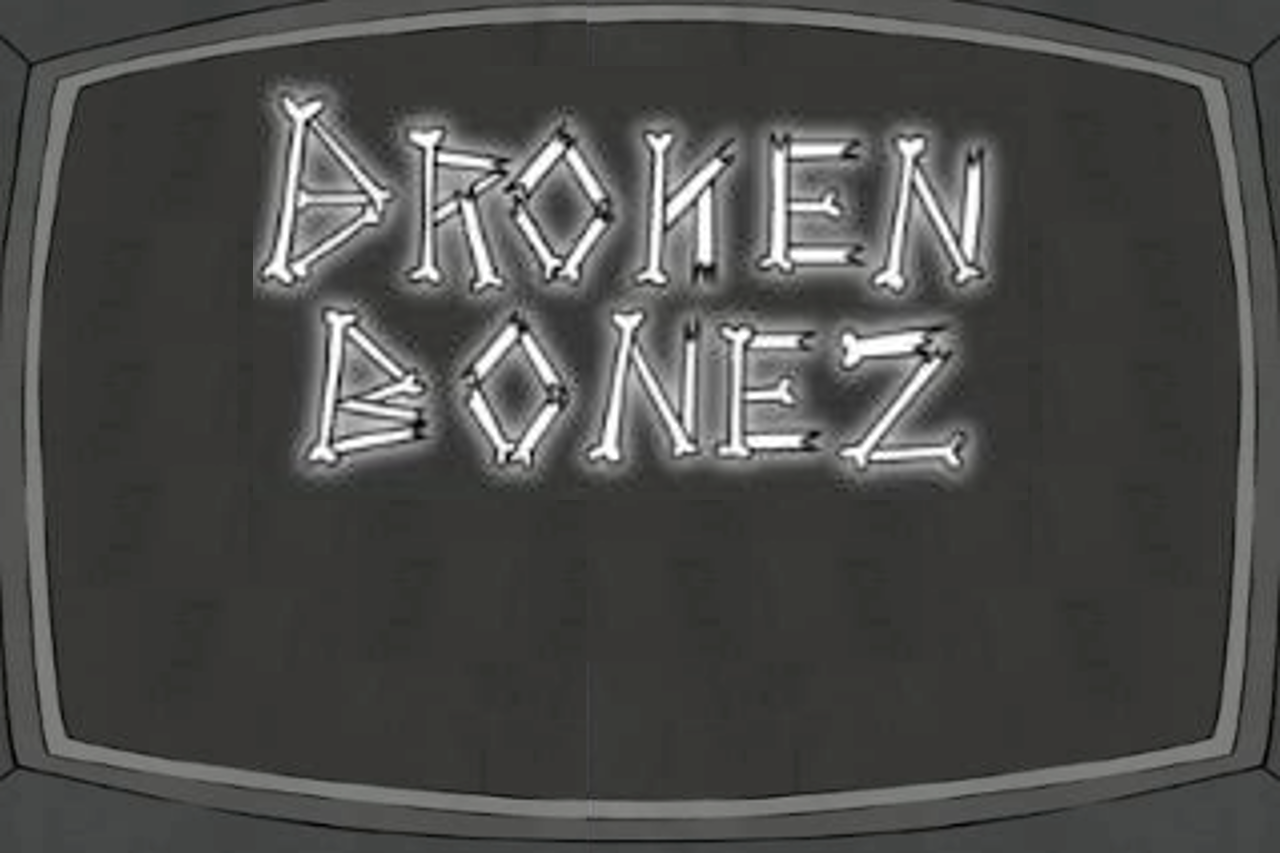
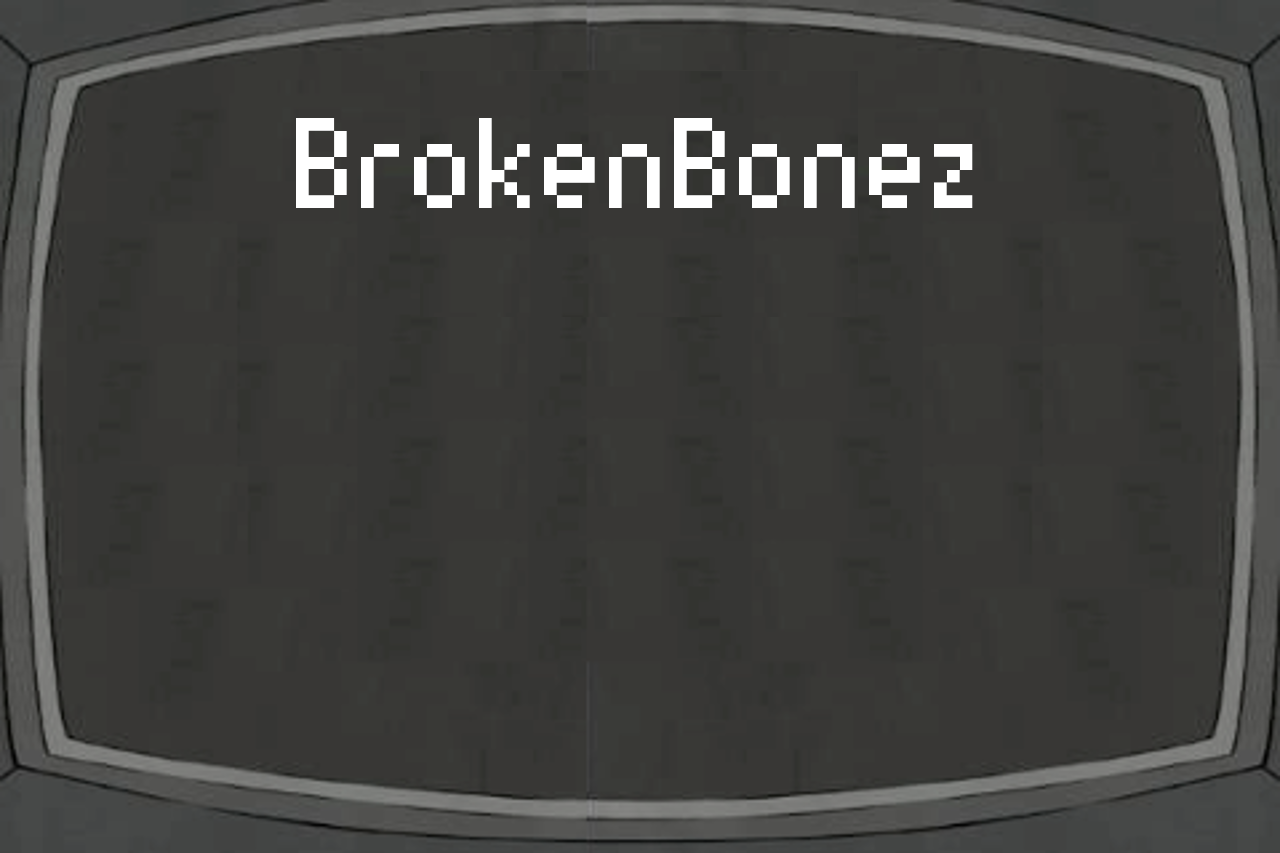
ImageButtons now work with touch, Main Menu art updated & all Main Menu buttons added, removed old textButton class & various unused pngs.

Changed region(s): [[0.1875, 0.0914, 0.7812, 0.5791]]

diff --git a/BrokenBonez/app/src/main/java/com/dragonfruitstudios/brokenbonez/Menu/MenuState.java b/BrokenBonez/app/src/main/java/com/dragonfruitstudios/brokenbonez/Menu/MenuState.java
@@ -2,7 +2,6 @@ package com.dragonfruitstudios.brokenbonez.Menu;
 
 import android.content.res.Resources;
 import android.graphics.Bitmap;
-import android.util.DisplayMetrics;
 import android.util.Log;
 import android.view.MotionEvent;
 import com.dragonfruitstudios.brokenbonez.AssetLoading.AssetLoader;
@@ -13,10 +12,13 @@ import com.dragonfruitstudios.brokenbonez.Math.VectorF;
 
 public class MenuState implements GameObject {
     ImageButton startGame;
+    ImageButton hiScore;
+    ImageButton credits;
     AssetLoader assetLoader;
     Bitmap background;
     boolean noiseOn;
     boolean noiseWait;
+    float waitTime = 0;
     Bitmap noise;
     final Bitmap scaledNoise;
     VectorF pos;
@@ -27,7 +29,9 @@ public class MenuState implements GameObject {
     public MenuState(AssetLoader assetLoader, GameSceneManager gameSceneManager) {
         this.assetLoader = assetLoader;
         this.gameSceneManager = gameSceneManager;
-        startGame = new ImageButton(assetLoader);
+        startGame = new ImageButton(assetLoader, getScreenWidth() / 4 - 14, getScreenHeight() / 4 + 60, 612, 180);
+        hiScore = new ImageButton(assetLoader, getScreenWidth() / 4 - 14, getScreenHeight() / 4 * 2 + 120, 270, 60);
+        credits = new ImageButton(assetLoader,  getScreenWidth() / 4 * 2 + 29, getScreenHeight() / 4 * 2 + 120, 270, 60);
         this.assetLoader.AddAssets(new String[]{"tv.png", "tvnoise.png"});
         noise = assetLoader.getBitmapByName("tvnoise.png");
         background = assetLoader.getBitmapByName("tv.png");
@@ -39,13 +43,13 @@ public class MenuState implements GameObject {
 
     @Override
     public void update(float lastUpdate) {
-        float waitTime;
         if(getNoiseWait() == true){
-            waitTime = lastUpdate;
-            while(lastUpdate == waitTime){
-                Log.d("START","Start");
-                startGameScreen();
-                break;
+            waitTime += lastUpdate;
+                if(waitTime > 1000) {
+                    noiseOn = false;
+                    noiseWait = false;
+                    waitTime = 0;
+                    startGameScreen();
             }
         }
     }
@@ -68,7 +72,9 @@ public class MenuState implements GameObject {
     @Override
     public void draw(GameView view) {
         view.drawImage(scaledBackground, pos, rotation, GameView.ImageOrigin.TopLeft);
-        view.drawImage(startGame.startGame, pos, rotation, GameView.ImageOrigin.TopLeft);
+        view.drawImage(startGame.scaledStartGame, startGame.pos, startGame.rotation, GameView.ImageOrigin.TopLeft);
+        view.drawImage(hiScore.scaledHiScore, hiScore.pos, hiScore.rotation, GameView.ImageOrigin.TopLeft);
+        view.drawImage(credits.scaledCredits, credits.pos, credits.rotation, GameView.ImageOrigin.TopLeft);
         if(getNoiseOn() == true){
             view.drawImage(scaledNoise, pos, rotation, GameView.ImageOrigin.TopLeft);
         }
@@ -83,8 +89,23 @@ public class MenuState implements GameObject {
      * I need a quick explanation on that.
      */
     public void onTouchEvent(MotionEvent event) {
-        setNoiseOn();
-        setNoiseWait();
+        startGame.onTouchEvent(event, (getScreenWidth() / 4 - 14), (getScreenHeight() / 4 + 60), ((getScreenWidth() / 4 - 14) + 611), ((getScreenHeight() / 4 + 60) + 179));
+        hiScore.onTouchEvent(event, (getScreenWidth() / 4 - 14), (getScreenHeight() / 4 * 2 + 120), ((getScreenWidth() / 4 - 14) + 269), ((getScreenHeight() / 4 * 2 + 120) + 59));
+        credits.onTouchEvent(event, (getScreenWidth() / 4 * 2 + 29), (getScreenHeight() / 4 * 2 + 120), ((getScreenWidth() / 4 * 2 + 29) + 269), ((getScreenHeight() / 4 * 2 + 120) + 59));
+
+        if(startGame.isTouched() == true){
+            startGame.isTouched = false;
+            setNoiseOn();
+            setNoiseWait();
+        }
+        if(hiScore.isTouched == true){
+            hiScore.isTouched = false;
+            Log.d("HISCORE", "isTouched");
+        }
+        if(credits.isTouched == true){
+            credits.isTouched = false;
+            Log.d("CREDITS", "isTouched");
+        }
     }
 
     public void startGameScreen() {

diff --git a/BrokenBonez/app/src/main/java/com/dragonfruitstudios/brokenbonez/Menu/ImageButton.java b/BrokenBonez/app/src/main/java/com/dragonfruitstudios/brokenbonez/Menu/ImageButton.java
@@ -1,16 +1,61 @@
 package com.dragonfruitstudios.brokenbonez.Menu;
 
-
 import android.graphics.Bitmap;
+import android.graphics.PointF;
+import android.view.MotionEvent;
 import com.dragonfruitstudios.brokenbonez.AssetLoading.AssetLoader;
+import com.dragonfruitstudios.brokenbonez.Math.Collisions.Rect;
+import com.dragonfruitstudios.brokenbonez.Math.VectorF;
 
 public class ImageButton {
     Bitmap startGame;
+    Bitmap hiScore;
+    Bitmap credits;
+    final Bitmap scaledStartGame;
+    final Bitmap scaledHiScore;
+    final Bitmap scaledCredits;
     AssetLoader assetLoader;
+    VectorF pos;
+    float rotation;
+    boolean isTouched;
+    Rect rectangle;
 
-    public ImageButton(AssetLoader assetLoader){
+    public ImageButton(AssetLoader assetLoader, float x, float y, float width, float height){
+        this.rotation = 0;
+        this.pos = new VectorF(x, y);
+        this.rectangle = new Rect(this.pos, width, height);
         this.assetLoader = assetLoader;
-        this.assetLoader.AddAssets(new String[]{"start_game.png"});
-        startGame = assetLoader.getBitmapByName("start_game.png");
+        this.assetLoader.AddAssets(new String[]{"start.png", "hiscore.png", "credits.png"});
+        startGame = assetLoader.getBitmapByName("start.png");
+        hiScore = assetLoader.getBitmapByName("hiscore.png");
+        credits = assetLoader.getBitmapByName("credits.png");
+        this.scaledStartGame = startGame.createScaledBitmap(startGame, 612, 180, false);
+        this.scaledHiScore = hiScore.createScaledBitmap(hiScore, 270, 60, false);
+        this.scaledCredits = credits.createScaledBitmap(credits, 270, 60, false);
     }
-}
+
+    public void onTouchEvent(MotionEvent event, float x, float y, float width, float height) {
+        int pointerIndex = event.getActionIndex();
+        int maskedAction = event.getActionMasked();
+        switch (maskedAction) {
+            case MotionEvent.ACTION_DOWN:
+            case MotionEvent.ACTION_POINTER_DOWN: {
+                PointF f = new PointF();
+                f.x = event.getX(pointerIndex);
+                f.y = event.getY(pointerIndex);
+                VectorF posCollide = new VectorF(x, y);
+                if(rectangle.collidesWith(posCollide)) {
+                    if(f.x > x && f.x < width){
+                        if(f.y > y && f.y < height) {
+                            isTouched = true;
+                        }
+                    }
+                }
+                break;
+            }
+        }
+    }
+        public boolean isTouched(){
+            return isTouched;
+        }
+    }
